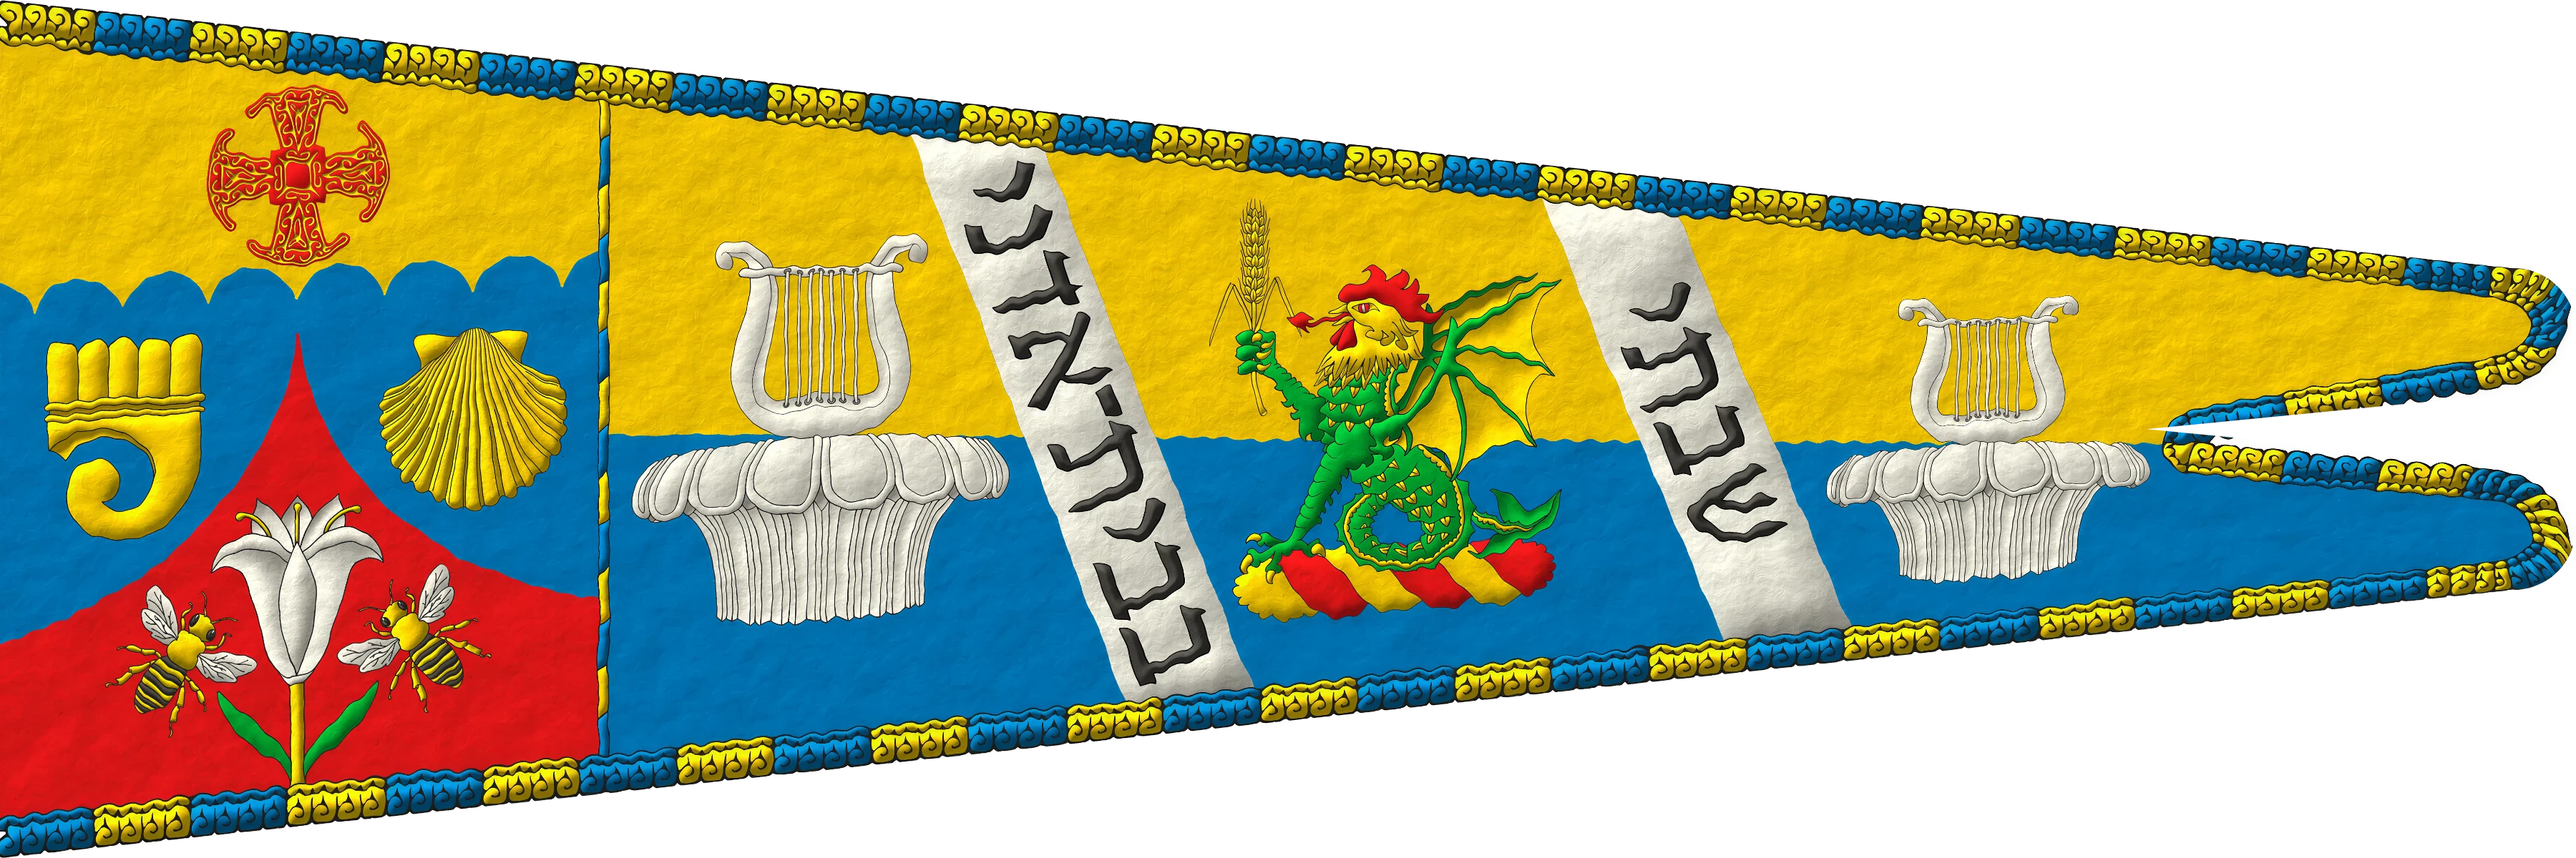
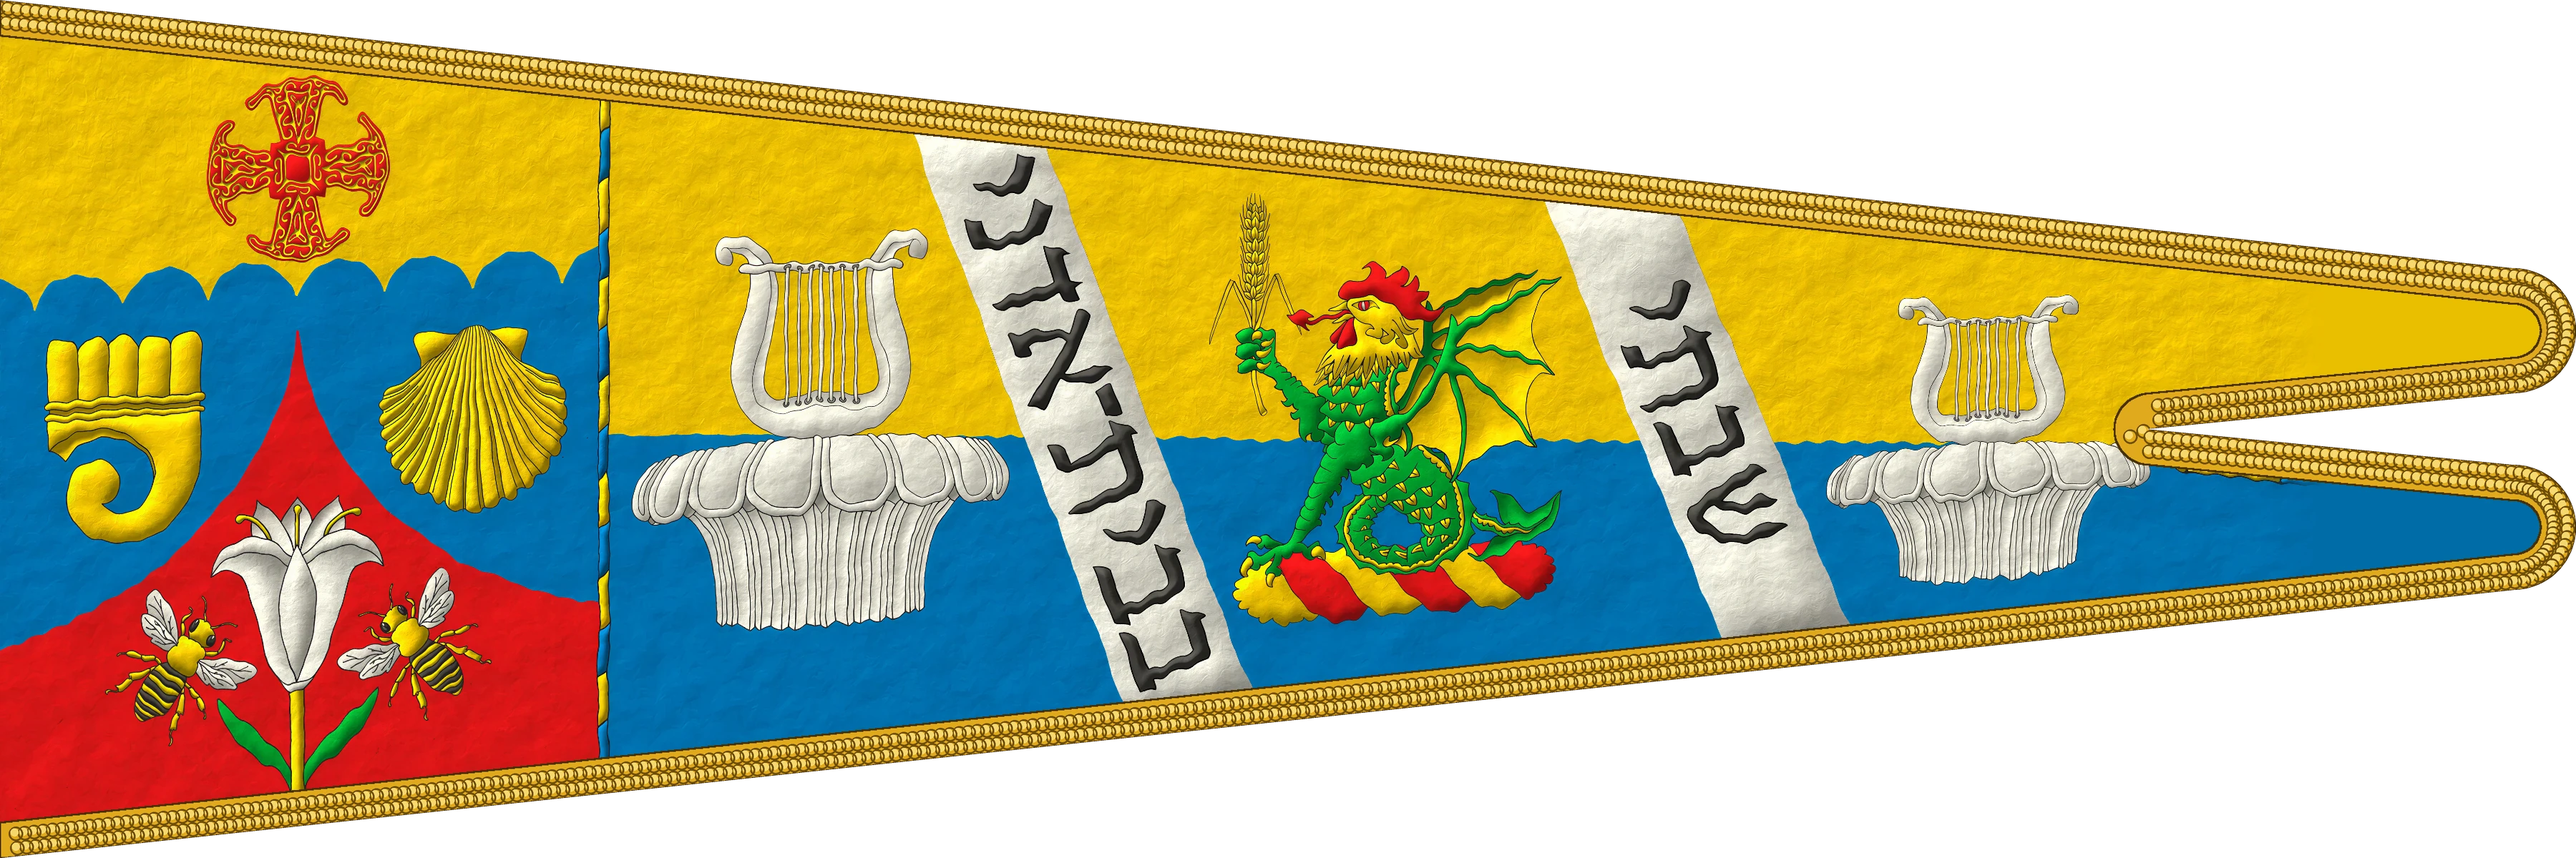
Medieval standard preview: remove trees and hills, pull blue fog closer, pure gold fringe
Claude-Session: https://claude.ai/code/session_01AGvNz6XFaaShtz5rtF7Lte

diff --git a/3d/medieval-standard-outdoor-preview/scene.js b/3d/medieval-standard-outdoor-preview/scene.js
@@ -6,7 +6,7 @@ const stage=document.querySelector('#stage'),status=document.querySelector('#sta
 const IN=.0254,L=72*IN,FH=24*IN,TAILS=9*IN,POLE_TOP=2.62,TOPY=2.4,FX=.03,POLE_R=.0127;
 const TABS=[[0,6,'#e8b923'],[9,15,'#1d7fc0'],[18,24,'#d62d20']];
 const scene=new T.Scene(),world=new T.Group();scene.add(world);
-scene.fog=new T.Fog('#bcd6e6',28,95);
+scene.fog=new T.Fog('#a9c9e6',7,40);
 const mat=(color,roughness=.85,extra={})=>new T.MeshStandardMaterial({color,roughness,...extra});
 function rng(seed){return()=>{seed=(seed*16807)%2147483647;return(seed-1)/2147483646;};}
 const rand=rng(7);
@@ -16,12 +16,8 @@ function canvasTexture(w,h,draw,repeat){const c=document.createElement('canvas')
 const grass=canvasTexture(512,512,(g,w,h)=>{g.fillStyle='#5f8a3f';g.fillRect(0,0,w,h);for(let i=0;i<9000;i++){const s=rand();g.fillStyle=s<.5?'#6f9a48':s<.8?'#527a35':'#7aa353';g.fillRect(rand()*w,rand()*h,2,5);}},[60,60]);
 const ground=add(new T.CircleGeometry(90,64),mat('#ffffff',1,{map:grass}));ground.rotation.x=-Math.PI/2;ground.castShadow=false;
 const dirt=add(new T.CircleGeometry(4.2,48),mat('#8a7655',1));dirt.rotation.x=-Math.PI/2;dirt.position.y=.004;dirt.castShadow=false;
-// Sky dome and distant hills.
-const sky=new T.Mesh(new T.SphereGeometry(120,32,16),new T.MeshBasicMaterial({side:T.BackSide,fog:false,map:canvasTexture(8,256,(g,w,h)=>{const gr=g.createLinearGradient(0,0,0,h);gr.addColorStop(0,'#5d93c8');gr.addColorStop(.55,'#a8cce4');gr.addColorStop(1,'#e4eef0');g.fillStyle=gr;g.fillRect(0,0,w,h);})}));scene.add(sky);
-for(const [x,z,r,c] of [[-60,-70,38,'#5c7a4a'],[30,-85,46,'#6a8754'],[75,-40,34,'#587446'],[-85,-20,40,'#667f50']]){const h=add(new T.SphereGeometry(r,24,12,0,Math.PI*2,0,Math.PI/2),mat(c,1),[x,0,z]);h.scale.y=.45;h.castShadow=false;}
-// Trees.
-function tree(x,z,s=1){const t=add(new T.CylinderGeometry(.18*s,.28*s,2.4*s,8),mat('#5b4330'),[x,1.2*s,z]);for(const [dy,r] of [[3,1.7],[4.1,1.35],[5.1,.95]]){const f=add(new T.IcosahedronGeometry(r*s,1),mat(rand()<.5?'#3f6b34':'#4a7a3a',.95),[x+(rand()-.5)*.3,dy*s,z+(rand()-.5)*.3]);}}
-for(let i=0;i<22;i++){const a=rand()*Math.PI*2,r=17+rand()*28;tree(Math.cos(a)*r,Math.sin(a)*r-6,.9+rand()*.7);}
+// Sky dome.
+const sky=new T.Mesh(new T.SphereGeometry(120,32,16),new T.MeshBasicMaterial({side:T.BackSide,fog:false,map:canvasTexture(8,256,(g,w,h)=>{const gr=g.createLinearGradient(0,0,0,h);gr.addColorStop(0,'#5d93c8');gr.addColorStop(.5,'#a9c9e6');gr.addColorStop(1,'#a9c9e6');g.fillStyle=gr;g.fillRect(0,0,w,h);})}));scene.add(sky);
 // Camp: two wedge tents, a striped pavilion, fire pit, barrels and crates.
 const canvasMat=mat('#d9ceb0',.95,{side:T.DoubleSide});
 function wedgeTent(x,z,rot,w=3.2,h=2.1,d=4.4,color){const s=new T.Shape();s.moveTo(-w/2,0);s.lineTo(w/2,0);s.lineTo(0,h);s.closePath();const g=new T.ExtrudeGeometry(s,{depth:d,bevelEnabled:false});g.translate(0,0,-d/2);const m=add(g,color?mat(color,.95,{side:T.DoubleSide}):canvasMat,[x,0,z]);m.rotation.y=rot;add(new T.CylinderGeometry(.03,.03,d+.5,8),mat('#5b4330'),[0,h+.02,0],m).rotation.x=Math.PI/2;}

diff --git a/3d/medieval-standard-outdoor-preview/README.md b/3d/medieval-standard-outdoor-preview/README.md
@@ -2,8 +2,8 @@
 
 URL: `/3d/medieval-standard-outdoor-preview/`. Listed in `/projects/3d/`, with `seo_hidden=true` and robots `noindex`. Serve the repository root over HTTP; no build step. Uses Three.js 0.160.0 and OrbitControls, same stack as `/3d/lousiana-flag-mount-test-xxl/`.
 
-Scene: a medieval re-enactment camp (wedge tents, striped pavilion, fire pit, trees) with a finial pole carrying a 72 × 24 in (1.8288 × 0.6096 m) swallow-tail standard that tapers to 9 in across the tails (two 3.5 in tails, 2 in notch gap, 12 in notch depth). Three crenulated sleeve tabs (6 in tabs, 3 in gaps) wrap the pole; the top tab is open at the top for a finial pole. Vincent's flat silhouette (`vincent-silhouette.json`, copied from the Louisiana study) stands 1.778 m (5 ft 10 in) next to the pole for scale. All geometry is in meters; `units.js` converts display labels only.
+Scene: a medieval re-enactment camp (wedge tents, striped pavilion, fire pit) in blue distance fog that starts about 7 m from the camera, so the flag stays the focus with a finial pole carrying a 72 × 24 in (1.8288 × 0.6096 m) swallow-tail standard that tapers to 9 in across the tails (two 3.5 in tails, 2 in notch gap, 12 in notch depth). Three crenulated sleeve tabs (6 in tabs, 3 in gaps) wrap the pole; the top tab is open at the top for a finial pole. Vincent's flat silhouette (`vincent-silhouette.json`, copied from the Louisiana study) stands 1.778 m (5 ft 10 in) next to the pole for scale. All geometry is in meters; `units.js` converts display labels only.
 
-Artwork: `flag.webp` is a placeholder. It takes a customer-supplied reference image (upscaled 4x) and squeezes it vertically, column by column, into the tapered shape, then masks it to the swallow-tail outline (50 px per inch, 3600 × 1200). The reference's blue and gold fringe is kept as is; the real product has single-colour gold fringe. Replace `flag.webp` with the final design in the same 3:1 layout (alpha = flag outline) when the proof is approved.
+Artwork: `flag.webp` is a placeholder. It takes a customer-supplied reference image (upscaled 4x) and squeezes it vertically, column by column, into the tapered shape, then masks it to the swallow-tail outline (50 px per inch, 3600 × 1200). The reference's own fringe is cut away and replaced with a drawn pure-gold fringe (1 in band, all edges except the hoist), matching the single-colour gold fringe of the real product. Replace `flag.webp` with the final design in the same 3:1 layout (alpha = flag outline) when the proof is approved.
 
-Views: `#field` (default), `#flag`, `#front` open the matching camera. Wind toggles an animated ripple. Pole, finial, tents and trees are illustrative scenery, not part of an order.
+Views: `#field` (default), `#flag`, `#front` open the matching camera. Wind toggles an animated ripple. Pole, finial and tents are illustrative scenery, not part of an order.
